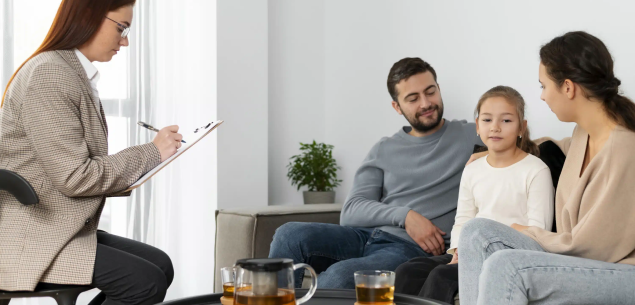
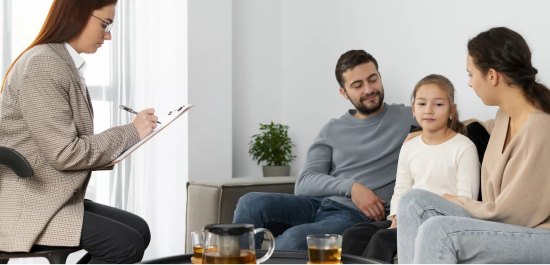
responsividade blog

diff --git a/Projeto 1º sem/blog.html b/Projeto 1º sem/blog.html
@@ -88,23 +88,35 @@
         </div>
     </header>
 
-    <main>
+    <main class="blog">
         <h2>BLOG</h2>
 
         <!-- ALTERAÇÃO FOI FEITA AQUI!! -->
 
         <!-- CARDS PRINCIPAIS -->
         <div id="cards_maiores">
-            <figure><img src="imagens/p3_blog/seta_esquerda.svg" alt="Seta virada para a esquerda"></figure>
-            <section class="card_principal">
-                <figure><a href="#"><img src="imagens/p3_blog/cards/card1.png" alt="Mulher em um consultório de psicologia"></a></figure>
+            <button>
+                <figure><img src="imagens/p3_blog/seta_esquerda.svg" alt="Seta virada para a esquerda"></figure>
+            </button>
+            <section class="card_principal">                
+                <a href="#">
+                    <picture>
+                        <source srcset="imagens/p3_blog/cards/card1.png" media="(min-width:800px)">
+                        <img src="imagens/p3_blog/cards/card1_550.png" alt="Mulher em um consultório de psicologia">
+                    </picture>
+                </a>
                 <h3><a href="#">Por que fazer terapia?</a></h3>
                 <p><a href="#">Clique para saber mais!</a></p>
             </section>
-            <figure><img src="imagens/p3_blog/seta_direita.svg" alt="Seta virada para a direita"></figure>
+            <button>
+                <figure><img src="imagens/p3_blog/seta_direita.svg" alt="Seta virada para a direita"></figure>
+            </button>
         </div>
         
-
+        <figure>
+            <img src="imagens/p3_blog/bolinhas.svg" alt="Bolinhas">
+        </figure>
+        
         <section class="card_principal card_position" id="c_esquerda">
             <figure><a href="#"><img src="imagens/p3_blog/cards/card2.png" alt="Família em um consultório de psicologia"></a></figure>
             <h3><a href="#">Terapia familiar: como funciona e para quem é indicada?</a></h3>

diff --git a/Projeto 1º sem/css/pag_internas.css b/Projeto 1º sem/css/pag_internas.css
@@ -28,14 +28,14 @@
     align-items: center;
 }
 #cards_maiores section{
-    margin-left: 3em;
-    margin-right: 3em;
+    margin-left: 2em;
+    margin-right: 2em;
 }
 .card_principal{
     background-color: #BFAB93;
     border-radius: 40px;
     width: 634.5px;
-    margin-bottom: 60px;
+    margin-bottom: 30px;
     box-shadow: 5px 15px 31.6px rgba(0, 0, 0, 0.16);
 }
 .card_principal img{
@@ -61,20 +61,30 @@
     padding-bottom: 30px;
     color: #f2f0f0b6;
 }
+.blog > figure{
+    text-align: center;
+    margin-bottom: 60px;
+}
 .card_position{
-    /* position: absolute; */
+    position: absolute;
     width: 550px;
+    opacity: 80%;
 }
 .card_position h3{
     font-size: 20px;
+    margin-top: 20px;
+    margin-bottom: 20px;
+}
+.card_position p{
+    padding-bottom: 20px;
 }
 #c_esquerda{
-    top: 16em;
-    left: -10em;
+    top: 18em;
+    left: -8em;
 }
 #c_direita{
-    top: 17em;
-    right: -10em;
+    top: 19em;
+    right: -8em;
 }
 #container{
     display: flex;
@@ -124,6 +134,49 @@ a{
     color: black;
 }
 
+@media screen and (max-width: 1630px){
+    #c_esquerda{
+        top: 18em;
+        left: -15em;
+    }
+    #c_direita{
+        top: 19em;
+        right: -15em;
+    }
+}
+@media screen and (max-width: 1400px){
+    #c_esquerda{
+        top: 18em;
+        left: -20em;
+    }
+    #c_direita{
+        top: 19em;
+        right: -20em;
+    }
+}
+@media screen and (max-width: 1200px){
+    #c_esquerda{
+        top: 18em;
+        left: -25em;
+    }
+    #c_direita{
+        top: 19em;
+        right: -25em;
+    }
+}
+@media screen and (max-width: 1020px){
+    .card_position{
+        display: none;
+    }
+}
+@media screen and (max-width: 800px){
+    .blog button{
+        display: none;
+    }
+    #card_principal{
+        width: 550px;
+    }
+}
 /* TÉRMINO ALTERAÇÃO */
 
 

diff --git a/Projeto 1º sem/css/geral.css b/Projeto 1º sem/css/geral.css
@@ -33,6 +33,14 @@ a{
   text-decoration: none;
 }
 
+/* ALTERAÇAO COMEÇA */
+button{
+  cursor: pointer;
+  border: none;
+  background-color: rgba(0, 0, 0, 0);
+}
+/* ALTERAÇAO TERMINA */
+
 
 /* HEADER */
 header{
